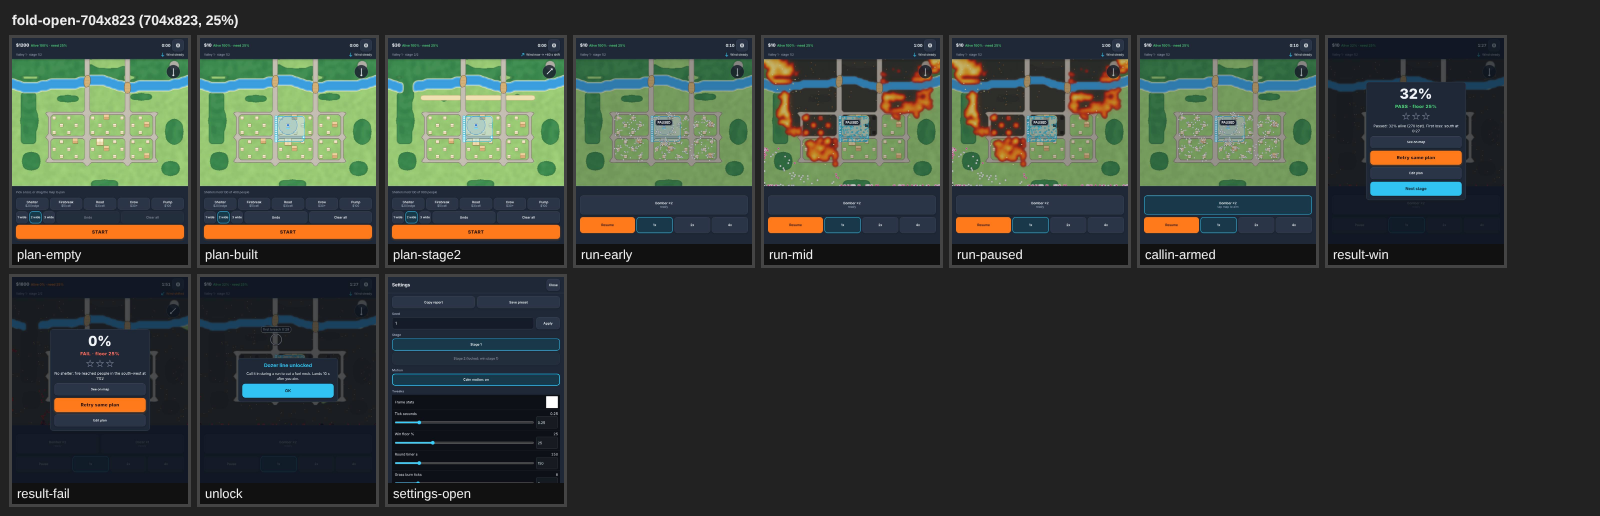
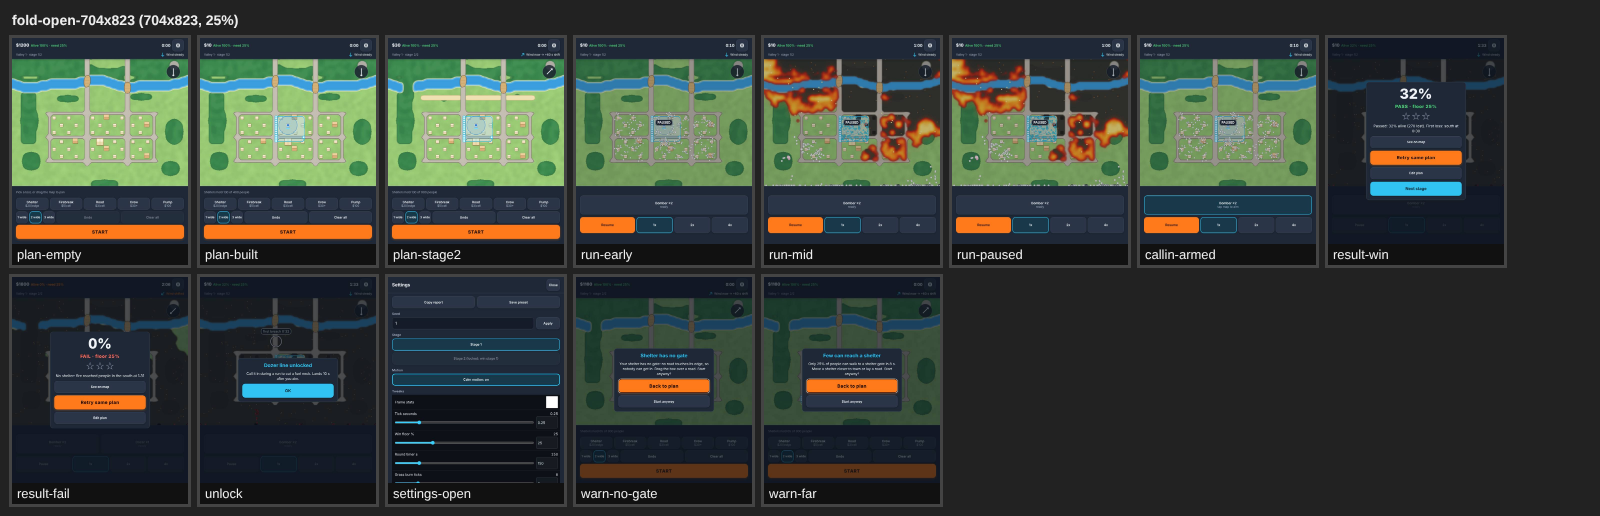
Windward Line stage 2 fix: shelter gate warning, ember grace, break ember shadow, spread x0.75, decisive cause line
Claude-Session: https://claude.ai/code/session_01Lcw2xvxy2v1ye2SztCAvX7

diff --git a/pages/windward-line/js/ui.js b/pages/windward-line/js/ui.js
@@ -188,6 +188,24 @@ export function initUI(root, api) {
   Object.assign(bBack.style, { position: 'fixed', zIndex: '25', left: '50%', transform: 'translateX(-50%)', width: 'auto', minWidth: '160px', height: '48px', minHeight: '48px', padding: '0 20px', bottom: 'calc(16px + env(safe-area-inset-bottom, 0px))', flexDirection: 'row' });
   root.append(bBack, top, trayPlan, trayRun, result, unlock, warn, settings, toastEl);
 
+  // stage2-fix item 6: shelter-reach warning, same card as the no-shelter one. null = fine.
+  function reachWarning() {
+    const r = call('shelterReach'), cfg = call('getCfg') || defaultCfg;
+    if (!r || !r.zones) return null;
+    const gateWord = r.gateless === r.zones ? (r.zones === 1 ? 'Your shelter has' : 'Your shelters have') + ' no gate: no road touches its edge, so nobody can get in. Drag the box over a road.' : '';
+    if (r.gateless === r.zones) return { head: 'Shelter has no gate', body: gateWord + ' Start anyway?' };
+    if (r.share >= cfg.reachWarnShare) return null;
+    const pct = Math.round(r.share * 100);
+    return { head: 'Few can reach a shelter', body: 'Only ' + pct + '% of people can walk to a shelter gate in ' + r.sec + ' s.' + (r.gateless ? ' ' + r.gateless + ' shelter' + (r.gateless > 1 ? 's have' : ' has') + ' no gate.' : '') + ' Move a shelter closer to town or lay a road. Start anyway?' };
+  }
+
+  function tryStart() {
+    const noShelter = !(last && last.zones && last.zones.length);
+    const w = noShelter ? { head: 'No shelter', body: 'No shelter: people have nowhere safe to go. Start anyway?' } : reachWarning();
+    if (w) { wHead.textContent = w.head; wBody.textContent = w.body; warn.setAttribute('aria-label', w.head); warn.hidden = false; syncInert(); const f = warn.querySelector('[data-act="warn-back"]'); if (f && f.focus) f.focus(); return false; }
+    call('start'); return true;
+  }
+
   // ---------- state ----------
   let armed = null;       // armed call-in (local mirror unless api.getArmed exists)
   let bw = 2;             // break width
@@ -322,8 +340,7 @@ export function initUI(root, api) {
     } else if (t.dataset.stage) {
       hideOverlays(); closeSettings(); call('goStage', +t.dataset.stage);
     } else if (t.id === 'btn-start') {
-      const noShelter = !(last && last.zones && last.zones.length);
-      if (noShelter) { warn.hidden = false; syncInert(); const f = warn.querySelector('[data-act="warn-back"]'); if (f && f.focus) f.focus(); } else call('start');
+      tryStart();
     } else if (t.id === 'calm-toggle') { if (A.setCalm) { call('setCalm', !isCalm()); refreshCalm(); }
     } else if (t.id === 'btn-settings') { openSettings();
     } else if (t.id === 'btn-copy') { call('copyReport');
@@ -484,5 +501,5 @@ export function initUI(root, api) {
   }
 
   syncInert();
-  return { update, showResult, showUnlock, hideOverlays, toast, openSettings, closeSettings };
+  return { update, showResult, showUnlock, hideOverlays, toast, openSettings, closeSettings, tryStart };
 }

diff --git a/pages/windward-line/js/fire.js b/pages/windward-line/js/fire.js
@@ -94,6 +94,25 @@ function breakCentre(state, f, id) {
   return c;
 }
 
+// A standing break shadows the ground downwind of it: walk back along the ember's flight line up to breakShadowN cells;
+// a break cell there cuts the landing chance (wide breaks cut harder).
+function breakShadow(state, e, ix, iy) {
+  const cfg = state.cfg, N = cfg.breakShadowN | 0;
+  if (N <= 0 || !state.breaks || !state.breaks.length) return 1;
+  const sp = Math.hypot(e.vx, e.vy) || 1, ux = e.vx / sp, uy = e.vy / sp, brk = state.grid.brk;
+  let mul = 1;
+  for (let k = 1; k <= N; k++) {
+    const x = Math.round(ix - ux * k), y = Math.round(iy - uy * k);
+    if (x < 0 || y < 0 || x >= MAP_W || y >= MAP_H) break;
+    const id = brk[y * MAP_W + x] - 1;
+    if (id < 0) continue;
+    const b = state.breaks[id];
+    const m = ((b && b.width) || cfg.breakWidth) >= 2 ? cfg.breakShadowMulWide : cfg.breakShadowMul;
+    if (m < mul) mul = m;
+  }
+  return mul;
+}
+
 export function fireStep(state) {
   const f = fz(state), cfg = state.cfg, g = state.grid, rng = state._fireRng;
   const w = wvec(state), level = w.level || 0, counts = state.counts;
@@ -125,6 +144,8 @@ export function fireStep(state) {
   const windAng = Math.atan2(wy, wx);
   const coneRad = cfg.emberConeDeg * Math.PI / 180;
   const flight = cfg.emberFlightBase + cfg.emberFlightPerW * level;
+  const spreadMul = state.stage === 2 ? cfg.spreadMulStage2 : 1;
+  const emberOn = state.tick >= Math.round(cfg.emberGraceSec / cfg.tickSec);
 
   // pass 1: spread, ember spawn, road heat, break heat accumulation (burning cells in list order)
   for (let li = 0; li < list.length; li++) {
@@ -141,12 +162,12 @@ export function fireStep(state) {
         continue;
       }
       if (!BURNABLE[nt] || burn[n] > 0 || burnt[n] || (zone[n] !== 0 && nt !== TYPE.HOUSE) || stamp[n] === stampId) continue;
-      let p = cfg.ignite[nt] * wf8[k];
+      let p = cfg.ignite[nt] * wf8[k] * spreadMul;
       if (wet[n] > 0) p *= cfg.wetFactor;
       if (rng.next() < p) { stamp[n] = stampId; fresh.push(n); }
     }
     // embers
-    if (level >= 0 && rng.next() < cfg.emberRate * (1 + level) * emberMul(t)) {
+    if (emberOn && level >= 0 && rng.next() < cfg.emberRate * (1 + level) * emberMul(t)) {
       const a = windAng + (rng.next() * 2 - 1) * coneRad;
       state.embers.push({ x: x + 0.5, y: y + 0.5, vx: Math.cos(a) * cfg.emberSpeed, vy: Math.sin(a) * cfg.emberSpeed, left: flight, from: { x, y }, crossed: null });
     }
@@ -216,6 +237,7 @@ export function fireStep(state) {
     if (!ignitable(g, n) || stamp[n] === stampId) continue;
     let p = cfg.emberLand[type[n]];
     if (wet[n] > 0) p *= cfg.wetFactor;
+    p *= breakShadow(state, e, ix, iy);
     if (rng.next() < p) {
       stamp[n] = stampId; fresh.push(n);
       if (e.crossed) for (const id of e.crossed) {

diff --git a/pages/windward-line/js/sim.js b/pages/windward-line/js/sim.js
@@ -288,7 +288,7 @@ export function finishRun(state) {
 export function causeLine(state) {
   const pct = state.result ? state.result.pct : (state._pct != null ? state._pct : score(state).pct);
   const win = pct >= state.cfg.winFloor;
-  const fb = state.firstBreach, sec = (e) => fmtTime(e.tick * state.cfg.tickSec);
+  const sec = (e) => fmtTime(e.tick * state.cfg.tickSec);
   const fl = state.events.find((e) => e.kind === 'first-loss');
   if (win) {
     // balance-1: one line that still reads well when many were lost
@@ -296,7 +296,25 @@ export function causeLine(state) {
     if (lost <= 0) return 'Passed: ' + pct + '% alive';
     return `Passed: ${pct}% alive (${lost} lost)` + (fl ? `. First loss: ${sideName(fl.x, fl.y)} at ${sec(fl)}` : '');
   }
-  if (fl && !(state.zones && state.zones.length)) return `No shelter: fire reached people in the ${sideName(fl.x, fl.y)} at ${sec(fl)}`;
+  const zones = state.zones || [];
+  if (fl && !zones.length) return `No shelter: fire reached people in the ${sideName(fl.x, fl.y)} at ${sec(fl)}`;
+  // stage2-fix item 5: name the decisive cause, not the first event. Order: nobody reached a shelter > shelter breached >
+  // road cut > break breached > ember jump (earliest event of the highest kind present).
+  const find = (...kinds) => state.events.find((e) => kinds.indexOf(e.kind) >= 0);
+  const started = state.people && state.people.n > 0;
+  if (zones.length && started && state.counts.safe === 0) {
+    const z0 = zones[0];
+    const where = zones.length === 1 ? `the ${sideName(z0.x + (z0.w >> 1), z0.y + (z0.h >> 1))} shelter` : 'any shelter';
+    const open = zones.some((z) => !z.gates || z.gates.length);
+    if (zones.every((z) => z.gates && !z.gates.length)) return `No one reached ${where}: no road touches its edge, so it has no gate`;
+    const sb = find('gate-closed', 'zone-hit'), rc = find('road-cut'), bb = find('break-breach'), ej = find('ember-jump');
+    if (sb) return `No one reached ${where}: ` + (sb.kind === 'gate-closed' ? `gate closed at ${sec(sb)}` : `embers hit it at ${sec(sb)}`);
+    if (rc) return `No one reached ${where}: road cut at ${sec(rc)}`;
+    if (bb) return `No one reached ${where}: fire broke the ${sideName(bb.x, bb.y)} break at ${sec(bb)}`;
+    if (ej) return `No one reached ${where}: embers jumped the ${sideName(ej.x, ej.y)} break at ${sec(ej)}`;
+    return open ? `No one reached ${where}: fire cut the way at ${fl ? sec(fl) : fmtTime(state.tick * state.cfg.tickSec)}` : `No one reached ${where}`;
+  }
+  const fb = find('gate-closed', 'zone-hit') || find('road-cut') || find('break-breach') || find('ember-jump');
   if (fb) {
     const side = sideName(fb.x, fb.y), t = sec(fb);
     switch (fb.kind) {

diff --git a/pages/windward-line/js/contract.js b/pages/windward-line/js/contract.js
@@ -54,6 +54,9 @@ export const defaultCfg = Object.freeze({
   emberRate: 0.006,         // per burning cell per tick, x(1+W), woods x1 house x1.5 grass x0.3. balance-1: was 0.004 (fire died at the river/top road, idle won)
   emberFlightBase: 4, emberFlightPerW: 5, emberConeDeg: 20, emberSpeed: 2, // cells per tick
   emberLand: { 1: 0.5, 2: 0.3, 3: 0.4 },
+  // stage2-fix (admin default): no embers before emberGraceSec; a standing break shadows embers landing within breakShadowN cells
+  // downwind of it (landing chance x breakShadowMul, x breakShadowMulWide for width >= 2); stage 2 base spread x spreadMulStage2.
+  emberGraceSec: 15, breakShadowN: 6, breakShadowMul: 0.25, breakShadowMulWide: 0.1, spreadMulStage2: 0.75,
   wetFactor: 0.1, wetTicks: 80,
   // firebreak (barrier)
   breakCost: 5, breakWidth: 2, breakHoldPerW: 10, breakHeatR: 2,
@@ -79,6 +82,8 @@ export const defaultCfg = Object.freeze({
   dozerUses: 1, dozerDelaySec: 10, dozerLen: 8,
   // lightning
   spotMax: 2,
+  reachSec: 8, reachWarnShare: 0.5, // (town is 62x34: 8 s ~ 24 walk cost; a lone corner box reaches ~25%, 4 spread boxes 100%)
+  // plan warning: share of people with a road path to a shelter gate within reachSec; warn under reachWarnShare
   forecastLeadSec: 20,      // wind shift shown this early in the forecast strip / tell
 });
 
@@ -96,6 +101,9 @@ export const TWEAK_SPEC = [
   ['pumpCost', 'Pump house cost', 0, 400, 10], ['bomberUses', 'Bomber uses', 0, 6, 1], ['bomberDelaySec', 'Bomber delay s', 0, 30, 1], ['bomberLen', 'Bomber line cells', 4, 30, 1],
   ['dozerUses', 'Dozer uses', 0, 4, 1], ['dozerDelaySec', 'Dozer delay s', 0, 30, 1], ['dozerLen', 'Dozer line cells', 2, 20, 1],
   ['spotMax', 'Max new spot fires', 0, 10, 1],
+  ['emberGraceSec', 'Ember grace s', 0, 60, 1], ['breakShadowN', 'Break ember shadow cells', 0, 12, 1], ['breakShadowMul', 'Break shadow landing x', 0, 1, 0.05],
+  ['breakShadowMulWide', 'Wide break shadow landing x', 0, 1, 0.05], ['spreadMulStage2', 'Stage 2 spread x', 0.3, 1.5, 0.05],
+  ['reachSec', 'Shelter reach warn s', 2, 60, 1], ['reachWarnShare', 'Shelter reach warn share', 0, 1, 0.05],
 ];
 
 // firebreak hold strength vs heat: width cells -> hold number; rating vs a typical woods front in the current wind.

diff --git a/pages/windward-line/js/testhook.js b/pages/windward-line/js/testhook.js
@@ -4,7 +4,7 @@ import { applyAction } from './plan.js';
 import { startRun, step, finishRun, queueCallin, runToEnd, hashState } from './sim.js';
 
 const STATES = ['plan-empty', 'plan-built', 'plan-stage2', 'run-early', 'run-mid', 'run-paused',
-  'callin-armed', 'result-win', 'result-fail', 'unlock', 'settings-open'];
+  'callin-armed', 'result-win', 'result-fail', 'unlock', 'settings-open', 'warn-no-gate', 'warn-far'];
 
 export function installTestHook(WL) {
   let seedN = 1;
@@ -106,6 +106,8 @@ export function installTestHook(WL) {
       case 'result-fail': s = buildResult(false); break;
       case 'unlock': s = buildResult(true); break;
       case 'settings-open': s = fresh(1); botPlan(s); break;
+      case 'warn-no-gate': s = fresh(2); applyAction(s, { t: 'zone', x: 21, y: 115, w: 13, h: 5 }); break; // M's seed 1 shelter: below the last town road
+      case 'warn-far': s = fresh(2); applyAction(s, { t: 'zone', x: 20, y: 112, w: 13, h: 5 }); break; // gate yes, far corner: few can reach it
       default: throw new Error('unknown state: ' + name);
     }
     if (s.phase === 'result') { try { WL.resultShown = true; } catch (e) { /* ignore */ } } // no auto unlock card over result-win
@@ -114,6 +116,7 @@ export function installTestHook(WL) {
       try { WL.ui.showResult(s); } catch (e) { /* ignore */ }
     }
     if (name === 'unlock') { try { WL.ui.showUnlock('Call it in during a run to cut a fuel neck. Lands 10 s after you aim.'); } catch (e) { /* ignore */ } }
+    if (name === 'warn-no-gate' || name === 'warn-far') { try { WL.ui.tryStart(); } catch (e) { /* ignore */ } }
     if (name === 'settings-open') { try { WL.api.openSettings(); } catch (e) { /* ignore */ } }
     await raf2();
   }

diff --git a/pages/windward-line/js/people.js b/pages/windward-line/js/people.js
@@ -121,6 +121,26 @@ export function buildFlow(state) {
   state._flowTick = state.tick; state._flowDirty = false;
 }
 
+// stage2-fix item 6 (admin default): plan-phase check. Share of people whose home has a walk path to an open shelter gate
+// within cfg.reachSec (flow cost / runRoad ~ seconds). Zones with no road cell on their edge have no gate at all.
+// Pure read of the plan: only grid.dist and the flow scratch are touched, both rebuilt by startRun.
+export function shelterReach(state) {
+  const zones = state.zones || [], cfg = state.cfg, total = STAGES[state.stage].people;
+  const gateless = zones.filter((z) => !z.gates || !z.gates.length).length;
+  const out = { total, reach: 0, share: 0, zones: zones.length, gateless, sec: cfg.reachSec };
+  if (!zones.length || gateless === zones.length) return out;
+  for (const z of zones) z.inside = z.inside || 0;
+  buildFlow(state);
+  const dist = state.grid.dist, homes = state.map.homes || [];
+  let reach = 0;
+  for (const h of homes) {
+    const d = dist[(h.y | 0) * MAP_W + (h.x | 0)];
+    if (d !== Infinity && d / cfg.runRoad <= cfg.reachSec) reach += h.count;
+  }
+  out.reach = reach; out.share = total ? reach / total : 0;
+  return out;
+}
+
 function rebuildBlocks(g) {
   bcnt.fill(0); bsx.fill(0); bsy.fill(0); bnear.fill(0);
   const burn = g.burn; let total = 0;

diff --git a/pages/windward-line/js/main.js b/pages/windward-line/js/main.js
@@ -1,6 +1,7 @@
 // Windward Line - main.js (M8): boot, fixed-step loop, input, save, window.WL.
 import { defaultCfg, cloneCfg, breakRating, STAGES, PHASE, MAP_W, MAP_H, CELL_PX } from './contract.js';
 import { createState, startRun, step, queueCallin, finishRun, hashState } from './sim.js';
+import { shelterReach } from './people.js';
 import { applyAction, undo, refundAll, rebuild, buildingAt, costOf } from './plan.js';
 import { initRender, draw, screenToCell, fitView } from './render.js';
 import { initUI } from './ui.js';
@@ -153,6 +154,7 @@ const api = {
     ui.update(state);
   },
   getCfg: () => cfg,
+  shelterReach: () => shelterReach(state),
   setCfg(c) {
     cfg = cloneCfg(c);
     breakWidth = cfg.breakWidth;
